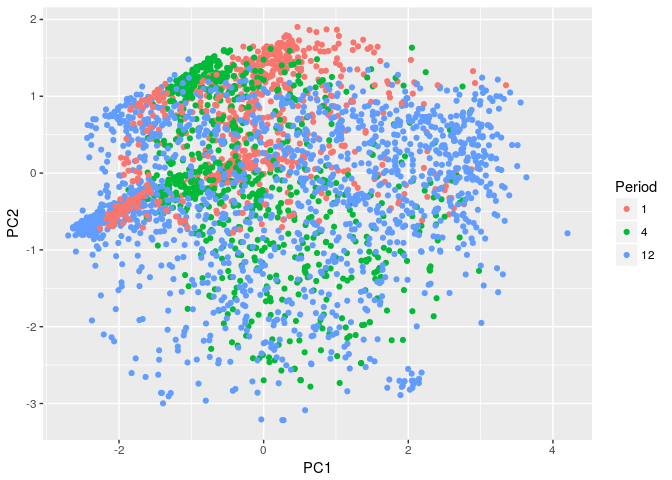
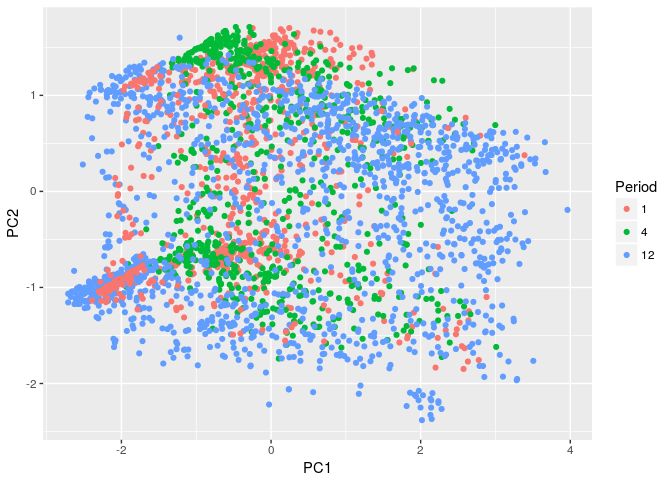
Updated readme

diff --git a/README.md b/README.md
@@ -34,7 +34,7 @@ library(anomalous)
 # package than in the Hyndman et al (2015) paper. Other features are the same.
 # Using the real data from the paper
 yahoo <- cbind(dat0, dat1, dat2, dat3)
-hwl <- cbind(
+hwl <- bind_cols(
          tsfeatures(yahoo,
            c("acf1","stl_features","entropy","lumpiness",
              "flat_spots","crossing_points")),
@@ -63,26 +63,26 @@ prcomp(na.omit(hwl), scale=TRUE)$x %>%
 ``` r
 library(tsfeatures)
 library(tidyverse)
+library(forecast)
 
 M3data <- purrr::map(Mcomp::M3, 
   function(x){
-    tspx <- tsp(x$x)
-    ts(c(x$x,x$xx), start=tspx[1], frequency=tspx[3])
+      tspx <- tsp(x$x)
+      ts(c(x$x,x$xx), start=tspx[1], frequency=tspx[3])
   })
-Lambda <- function(x){
-  suppressWarnings(forecast::BoxCox.lambda(x, lower=0, upper=1, method='loglik'))
-}
-khs <- cbind(
-  tsfeatures(M3data, c("entropy","stl_features","frequency")),
-  tsfeatures(M3data, "Lambda", scale=FALSE)) %>% 
-  select(frequency, entropy, trend, season, acfremainder, Lambda) %>%
+khs <- bind_cols(
+  tsfeatures(M3data, c("frequency", "entropy")),
+  tsfeatures(M3data, "stl_features", scale=FALSE, transform=TRUE, lower=0, upper=1, method='loglik'),
+  tsfeatures(M3data, "BoxCox.lambda", scale=FALSE, lower=0, upper=1, method="loglik")) %>% 
+  select(frequency, entropy, trend, season, acfremainder, BoxCox.lambda) %>%
   replace_na(list(season=0)) %>%
   rename(
     Period = frequency,
     Entropy = entropy,
     Trend = trend,
     Season = season,
-    ACF1 = acfremainder) %>%
+    ACF1 = acfremainder,
+    Lambda = BoxCox.lambda) %>%
   mutate(Period = as.factor(Period))
 ```
 
@@ -136,7 +136,7 @@ features2 <- c(
   "max_var_shift"
 )
 
-yk <- cbind(
+yk <- bind_cols(
         tsfeatures(M3data, features1),
         tsfeatures(M3data, features2, trim=TRUE)) %>% 
   select(entropy, trend, linearity, curvature, acf1,
